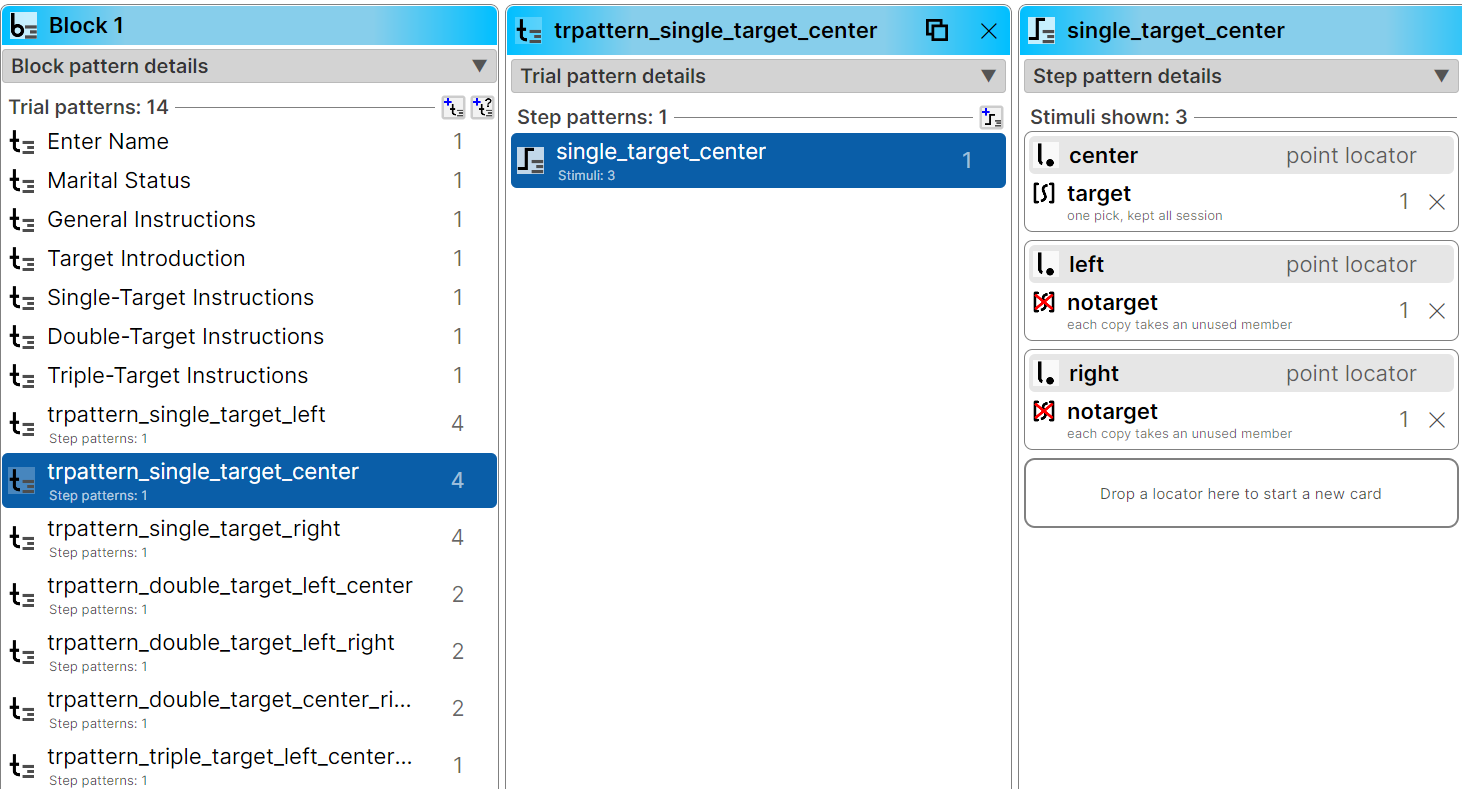
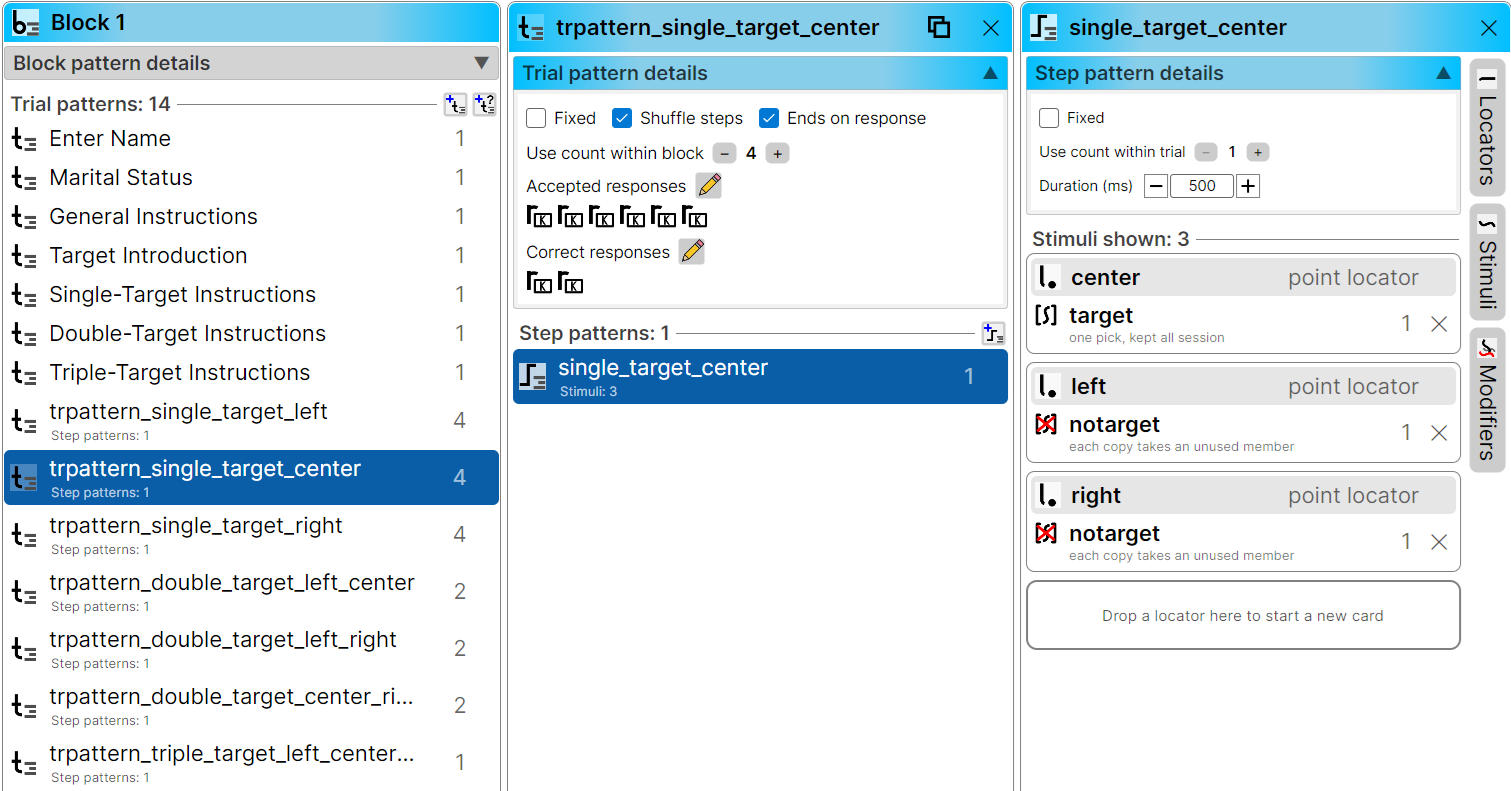
ClaudeCode put in the user's retaken experiment-pattern screenshot with both details panels open and restored the original text and alt text that describe those panels.

Changed region(s): [[0.0, 0.0, 1.0, 1.0], [0.3078, 0.943, 0.3386, 1.0], [0.3078, 0.8821, 0.3386, 0.9125]]

diff --git a/docs/tutorial-1-introduction.md b/docs/tutorial-1-introduction.md
@@ -63,17 +63,17 @@ HurPsyDesign was born out of necessity, to help some junior researchers who were
 
 On the **Experiment Pattern** tab, the same sliding columns show a block pattern, its trial patterns and the step patterns of the selected trial pattern.
 
-![The Experiment Pattern tab with Block 1 and its fourteen trial patterns, the trial pattern trpattern_single_target_center with its one step pattern, and the center, left and right cards of the step pattern single_target_center](images/tutorial-1/experiment-pattern.png)
+![The Experiment Pattern tab with Block 1 and its fourteen trial patterns, the details of trpattern_single_target_center and the details of its step pattern single_target_center](images/tutorial-1/experiment-pattern.png)
 
 **Block 1** holds fourteen trial patterns. The first seven, from *Enter Name* to *Triple-Target Instructions*, are used once each. The other seven describe the counting trials, one for each way the targets can fall on the three places.
 
-A **trial pattern** is the basis for a given number of real trials in a session. In the middle column we see the trial pattern for a single target in the center. Its settings are folded away under **Trial pattern details** in the picture, and a click on that bar opens them:
+A **trial pattern** is the basis for a given number of real trials in a session. In the middle column we see the trial pattern for a single target in the center:
 
 - **Use count within block** says how many trials the session makes from this pattern; here it is 4.
 - **Shuffle steps** mixes the order of the trial's steps, and **Ends on response** ends the trial as soon as the participant answers.
 - **Accepted responses** are the keys the trial listens to, and **Correct responses** are the ones that count as right. Colored Circles accepts the keys 1, 2 and 3 on both the top row and the number pad; for a single target, 1 on either is correct. **HurPsyRun** later uses these definitions to record which key the participant pressed and when.
 
-A **step pattern** is the basis for the single screens of a trial. The right column shows the only step of this trial. Its **Step pattern details**, which are also folded in the picture, set the step to last 500 ms. The step has one card per locator, and each card says which stimuli appear at that location. The stimuli are not named one by one, though: the **center** card takes the session's single pick from the target set, while the **left** and **right** cards each take an unused member of the notarget set.
+A **step pattern** is the basis for the single screens of a trial. The right column shows the only step of this trial, which lasts 500 ms. It has one card per locator, and each card says which stimuli appear at that location. The stimuli are not named one by one, though: the **center** card takes the session's single pick from the target set, while the **left** and **right** cards each take an unused member of the notarget set.
 
 The patterns have more properties than these, and later versions may add new ones or change them. We will meet the others in the shorter tutorials that build experiments by hand.
 
